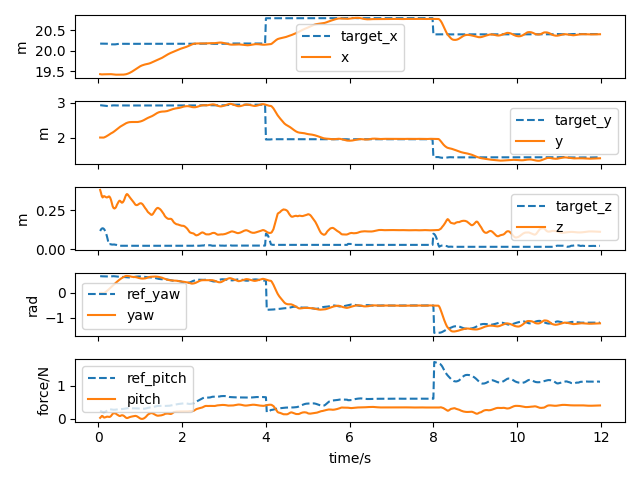
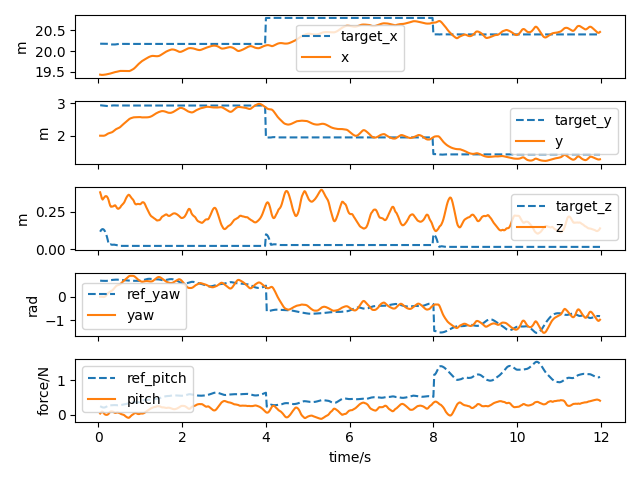
train without fit or collision

diff --git a/legged_gym/legged_gym/envs/go1g/go1gb_config.py b/legged_gym/legged_gym/envs/go1g/go1gb_config.py
@@ -130,7 +130,7 @@ class Go1GBRoughCfg( LeggedRobotCfg ):
             # tracking_gripper = 0.5
 
             # fit ground truth data
-            fit_truth = 0.5  # 2.5 for approach else 0.5
+            fit_truth = 0.5*0  # 2.5 for approach else 0.5
 
             # pickup rewards not applicable for approaching
             pickup_box = 3
@@ -141,7 +141,7 @@ class Go1GBRoughCfg( LeggedRobotCfg ):
             # ang_vel_xy = -0.05
             # orientation = -1.
             # dof_acc = -2.5e-7
-            collision = -1.
+            collision = -1.*0
             # action_rate = -0.1
             # delta_torques = -1.0e-7
             # torques = -0.00001

diff --git a/legged_gym/legged_gym/scripts/play.py b/legged_gym/legged_gym/scripts/play.py
@@ -67,8 +67,8 @@ def play(args):
     if args.nodelay:
         env_cfg.domain_rand.action_delay_view = 0
     env_cfg.env.num_envs = 1 if not args.save else 64  # 2
-    env_cfg.env.episode_length_s = 12 # 60 30
-    env_cfg.commands.resampling_time = 4 # 60 10
+    env_cfg.env.episode_length_s = 12 # 60 30 12
+    env_cfg.commands.resampling_time = 4 # 60 10 4
     env_cfg.terrain.num_rows = 2
     env_cfg.terrain.num_cols = 1
     env_cfg.terrain.height = [0.02, 0.02]
